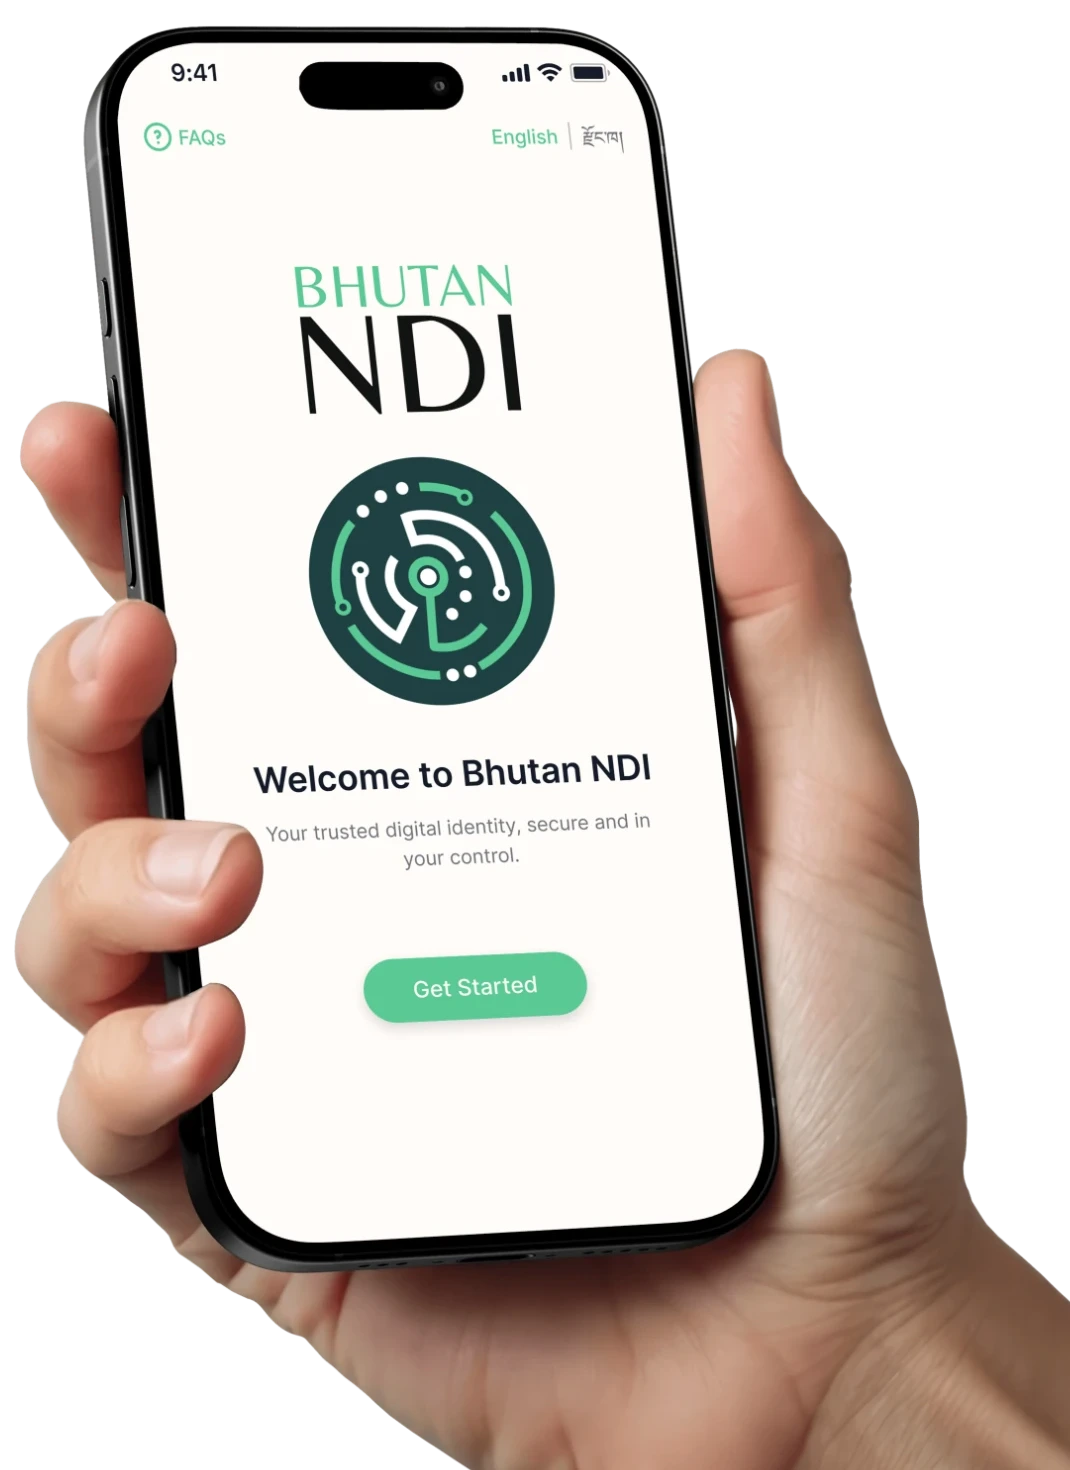
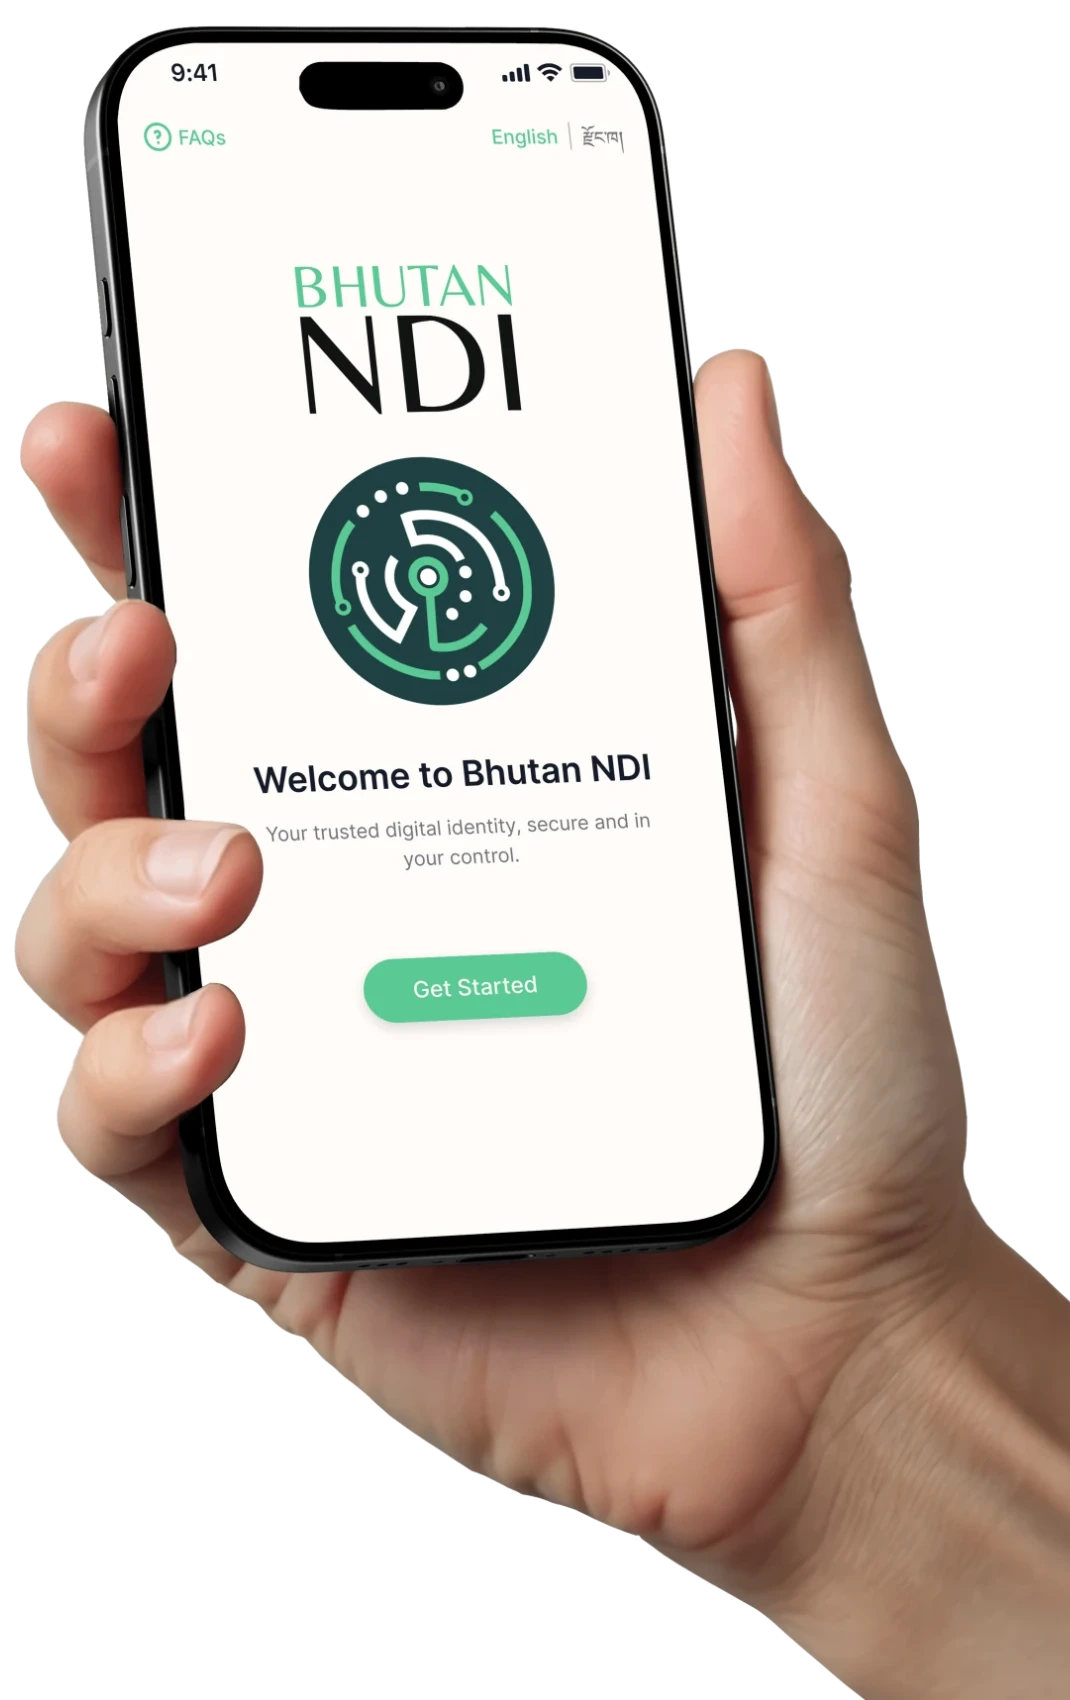
Re-crop the phone so more of the hand is in frame
The fade stops were not the problem: the image simply did not contain much
hand. The phone filled 86% of the crop's height, leaving 14% below it, so the
palm ran out almost as soon as the bezel did and every attempt to hold the fade
longer was fading something that was not there.

Cropped 230px further down the source. The phone is now 76% of the height, in
the proportion the reference shows, so the heel of the hand and the start of
the wrist are fully in frame at full opacity and the tail has real runway to
lose focus in — 90% before the sharp copy starts to give, with the blurred one
carrying it from 84% to the edge.

The image renders 392x623 rather than 392x539; the annotation rows absorb the
extra height in their gaps.

diff --git a/src/styles/ndi-effects.css b/src/styles/ndi-effects.css
@@ -582,10 +582,10 @@
   background-repeat: no-repeat;
   filter: blur(7px);
   -webkit-mask-image:
-    linear-gradient(to bottom, transparent 85%, #000 93%, #000 96%, transparent 100%),
+    linear-gradient(to bottom, transparent 84%, #000 93%, #000 97%, transparent 100%),
     linear-gradient(to right, #000 0%, #000 88%, rgba(0, 0, 0, 0.6) 96%, transparent 100%);
   mask-image:
-    linear-gradient(to bottom, transparent 85%, #000 93%, #000 96%, transparent 100%),
+    linear-gradient(to bottom, transparent 84%, #000 93%, #000 97%, transparent 100%),
     linear-gradient(to right, #000 0%, #000 88%, rgba(0, 0, 0, 0.6) 96%, transparent 100%);
   -webkit-mask-composite: source-in;
   mask-composite: intersect;
@@ -782,10 +782,10 @@
    vanishing rather than as it leaving the frame. */
 .ndi-cap-phone img {
   -webkit-mask-image:
-    linear-gradient(to bottom, #000 0%, #000 91%, rgba(0, 0, 0, 0.55) 96%, transparent 99%),
+    linear-gradient(to bottom, #000 0%, #000 90%, rgba(0, 0, 0, 0.5) 96%, transparent 99%),
     linear-gradient(to right, #000 0%, #000 86%, rgba(0, 0, 0, 0.6) 95%, rgba(0, 0, 0, 0.2) 99%, transparent 100%);
   mask-image:
-    linear-gradient(to bottom, #000 0%, #000 91%, rgba(0, 0, 0, 0.55) 96%, transparent 99%),
+    linear-gradient(to bottom, #000 0%, #000 90%, rgba(0, 0, 0, 0.5) 96%, transparent 99%),
     linear-gradient(to right, #000 0%, #000 86%, rgba(0, 0, 0, 0.6) 95%, rgba(0, 0, 0, 0.2) 99%, transparent 100%);
   -webkit-mask-composite: source-in;
   mask-composite: intersect;

diff --git a/src/content/capabilities.ts b/src/content/capabilities.ts
@@ -94,5 +94,5 @@ export const walletInHand = media(
   "/media/phone-in-hand.webp",
   "The Bhutan NDI wallet open on a phone, held in one hand",
   1070,
-  1470,
+  1700,
 );
